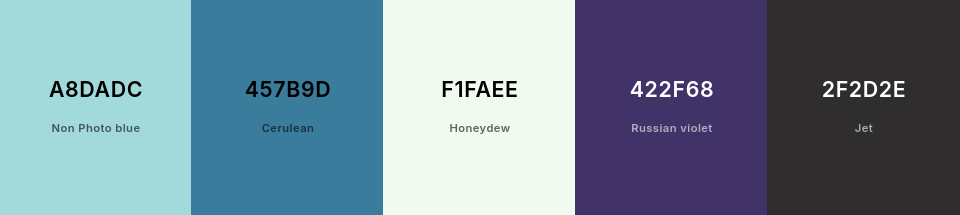
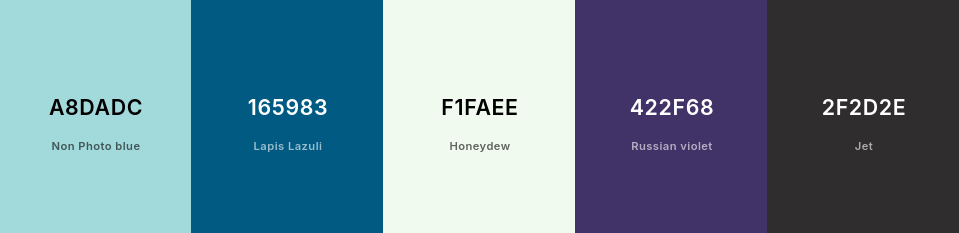
Update colour theme for colour contrast and update on info section button

diff --git a/assets/css/style.css b/assets/css/style.css
@@ -2,7 +2,7 @@
 
 :root {
     --primary-color: #A8DADC;
-    --secondary-color: #457B9D;
+    --secondary-color: #165983;
     --background-color: #F1FAEE;
     --accent-color: #422F68;
     --text-color: #2F2D2E;
@@ -29,13 +29,6 @@ body {
     text-align: center;
 }
 
-/* .hero-content {
-    background: rgba(0, 0, 0, 0.5);
-    /* Overlay for better text readability */
-    /* padding: 20px;
-    border-radius: 10px;
-} */ 
-
 /* Button */
 .btn-explore {
     margin-top: 20px;
@@ -51,14 +44,13 @@ body {
 
 .btn-explore:hover {
     background-color: var(--accent-color);
-    /* Highlight on hover */
     color: var(--background-color);
 }
 
 /* Navbar */
 .navbar {
-    background-color: var(--secondary-color);
-    color: var(--background-color);
+    background-color: var(--background-color);
+    color: var(--text-color);
 }
 
 .navbar-brand {
@@ -73,7 +65,6 @@ body {
 
 .nav-link:hover {
     color: var(--accent-color) !important;
-    /* Highlight on hover */
 }
 
 /* Section Styles */
@@ -153,7 +144,7 @@ body {
 }
 
 .card-body {
-    padding: 1.5rem;
+    margin-bottom: 1em;
 }
 
 .card:hover {
@@ -161,7 +152,7 @@ body {
 }
 
 .card-title a {
-    color: var(--primary-color);
+    color: var(--secondary-color);
     text-decoration: none;
 }
 
@@ -227,7 +218,6 @@ body {
 /* Social Media Icons */
 .social-icons a {
     font-size: 1.5rem;
-    /* Icon size */
     transition: color 0.3s ease-in-out;
 }
 

diff --git a/index.html b/index.html
@@ -18,7 +18,7 @@
 
 <body>
     <!-- Navbar -->
-    <nav class="navbar navbar-expand-lg navbar-light bg-light fixed-top">
+    <nav class="navbar navbar-expand-lg fixed-top">
         <div class="container">
             <a class="navbar-brand" href="#">Wellness One</a>
             <button class="navbar-toggler" type="button" data-bs-toggle="collapse" data-bs-target="#navbarNav"
@@ -32,9 +32,6 @@
                     </li>
                     <li class="nav-item">
                         <a class="nav-link" href="#mental-health-info">Mental Health Info</a>
-                    </li>
-                    <li class="nav-item">
-                        <a class="nav-link" href="#stress-management">Stress Management</a>
                     </li>
                     <li class="nav-item">
                         <a class="nav-link" href="#resources">Help</a>
@@ -105,7 +102,7 @@
                 </div>
             </div>
             <div class="text-center mt-4">
-                <a href="#resources" class="btn btn-primary">Find Support</a>
+                <a href="#resources" class="btn btn-primary">Read More</a>
             </div>
         </div>
     </section>
